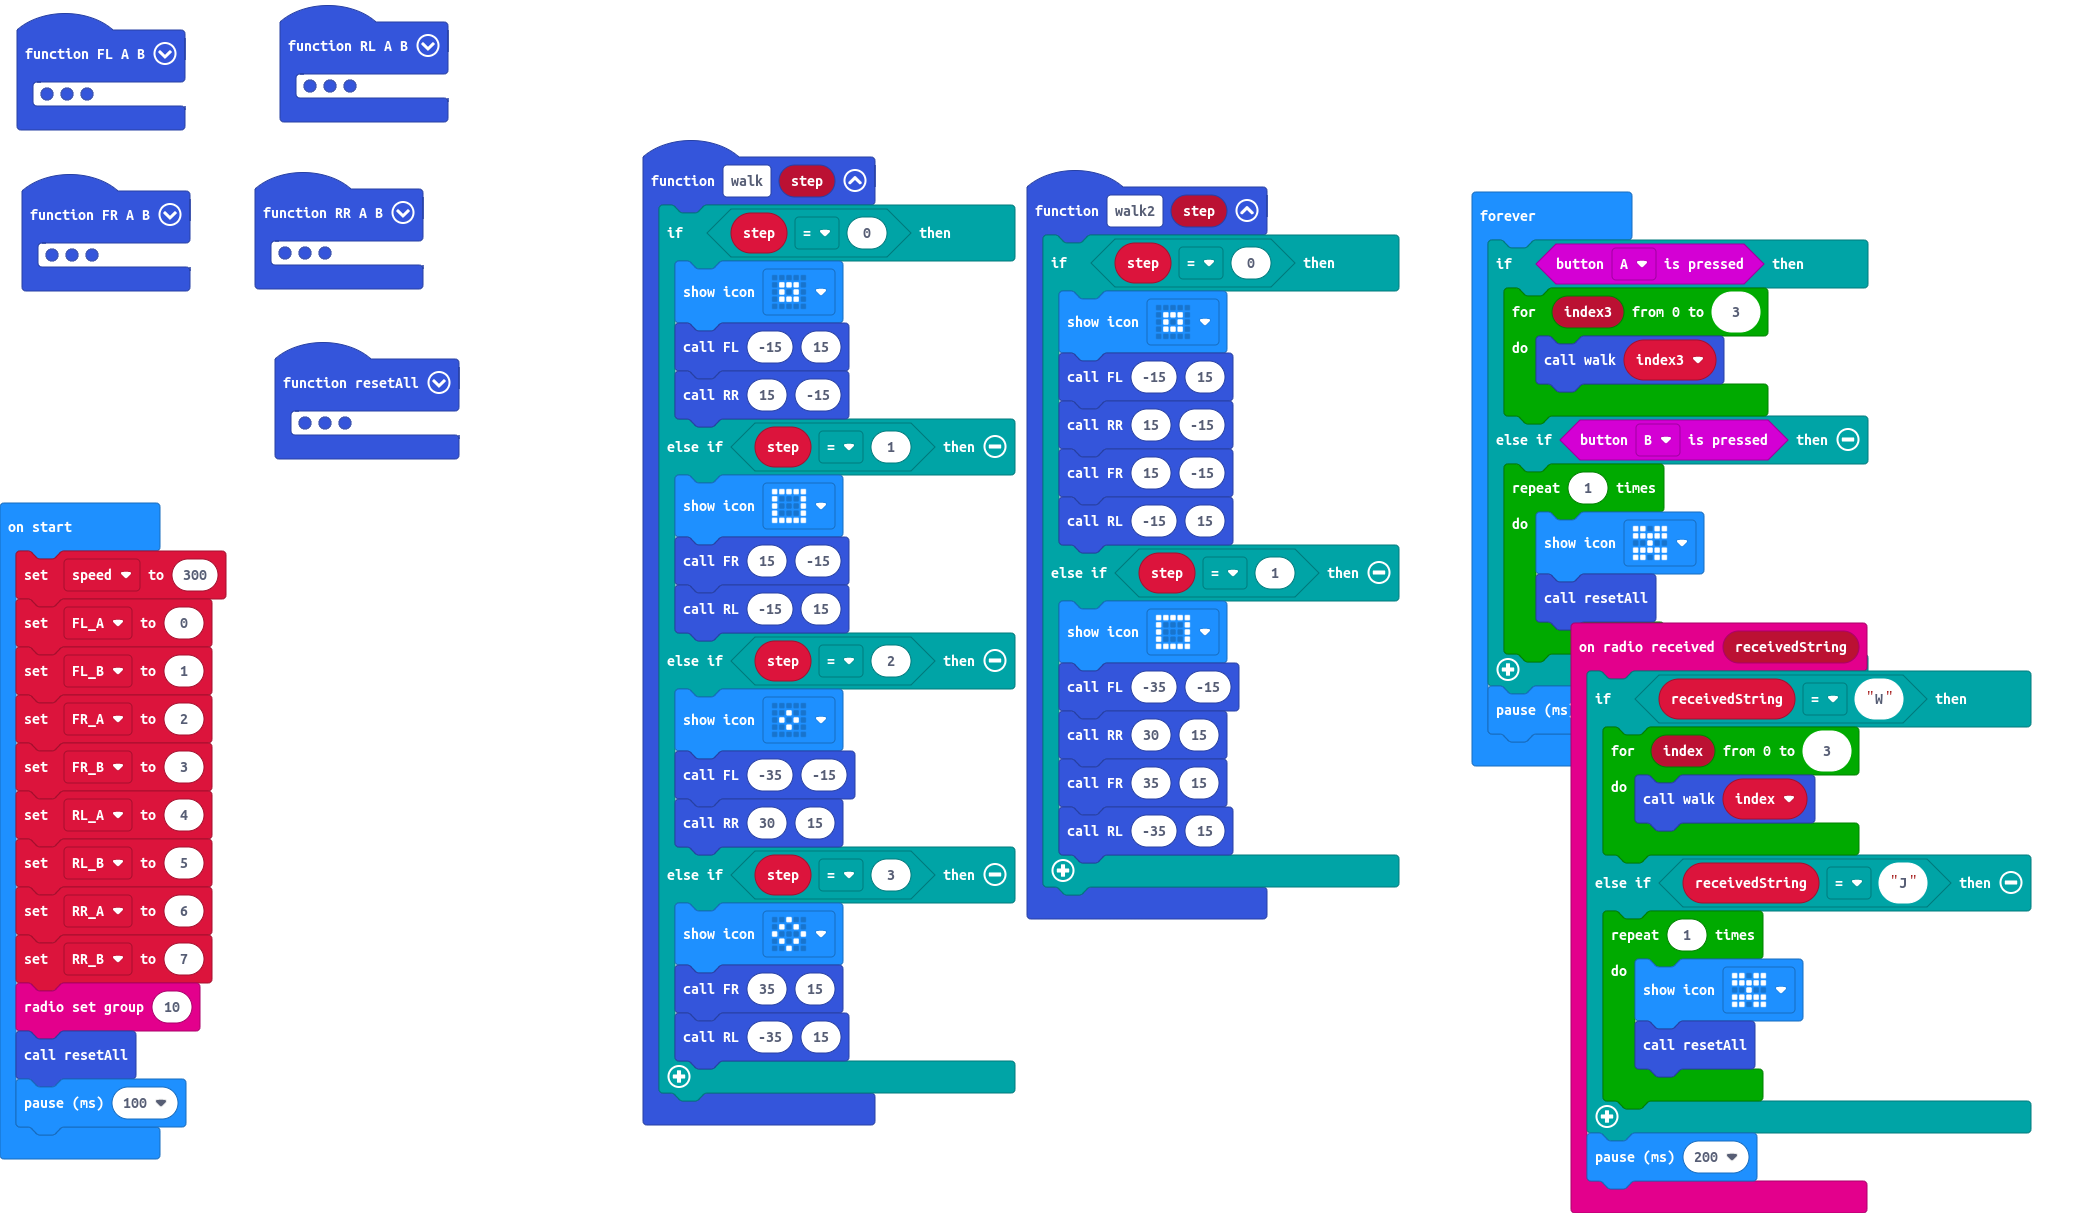
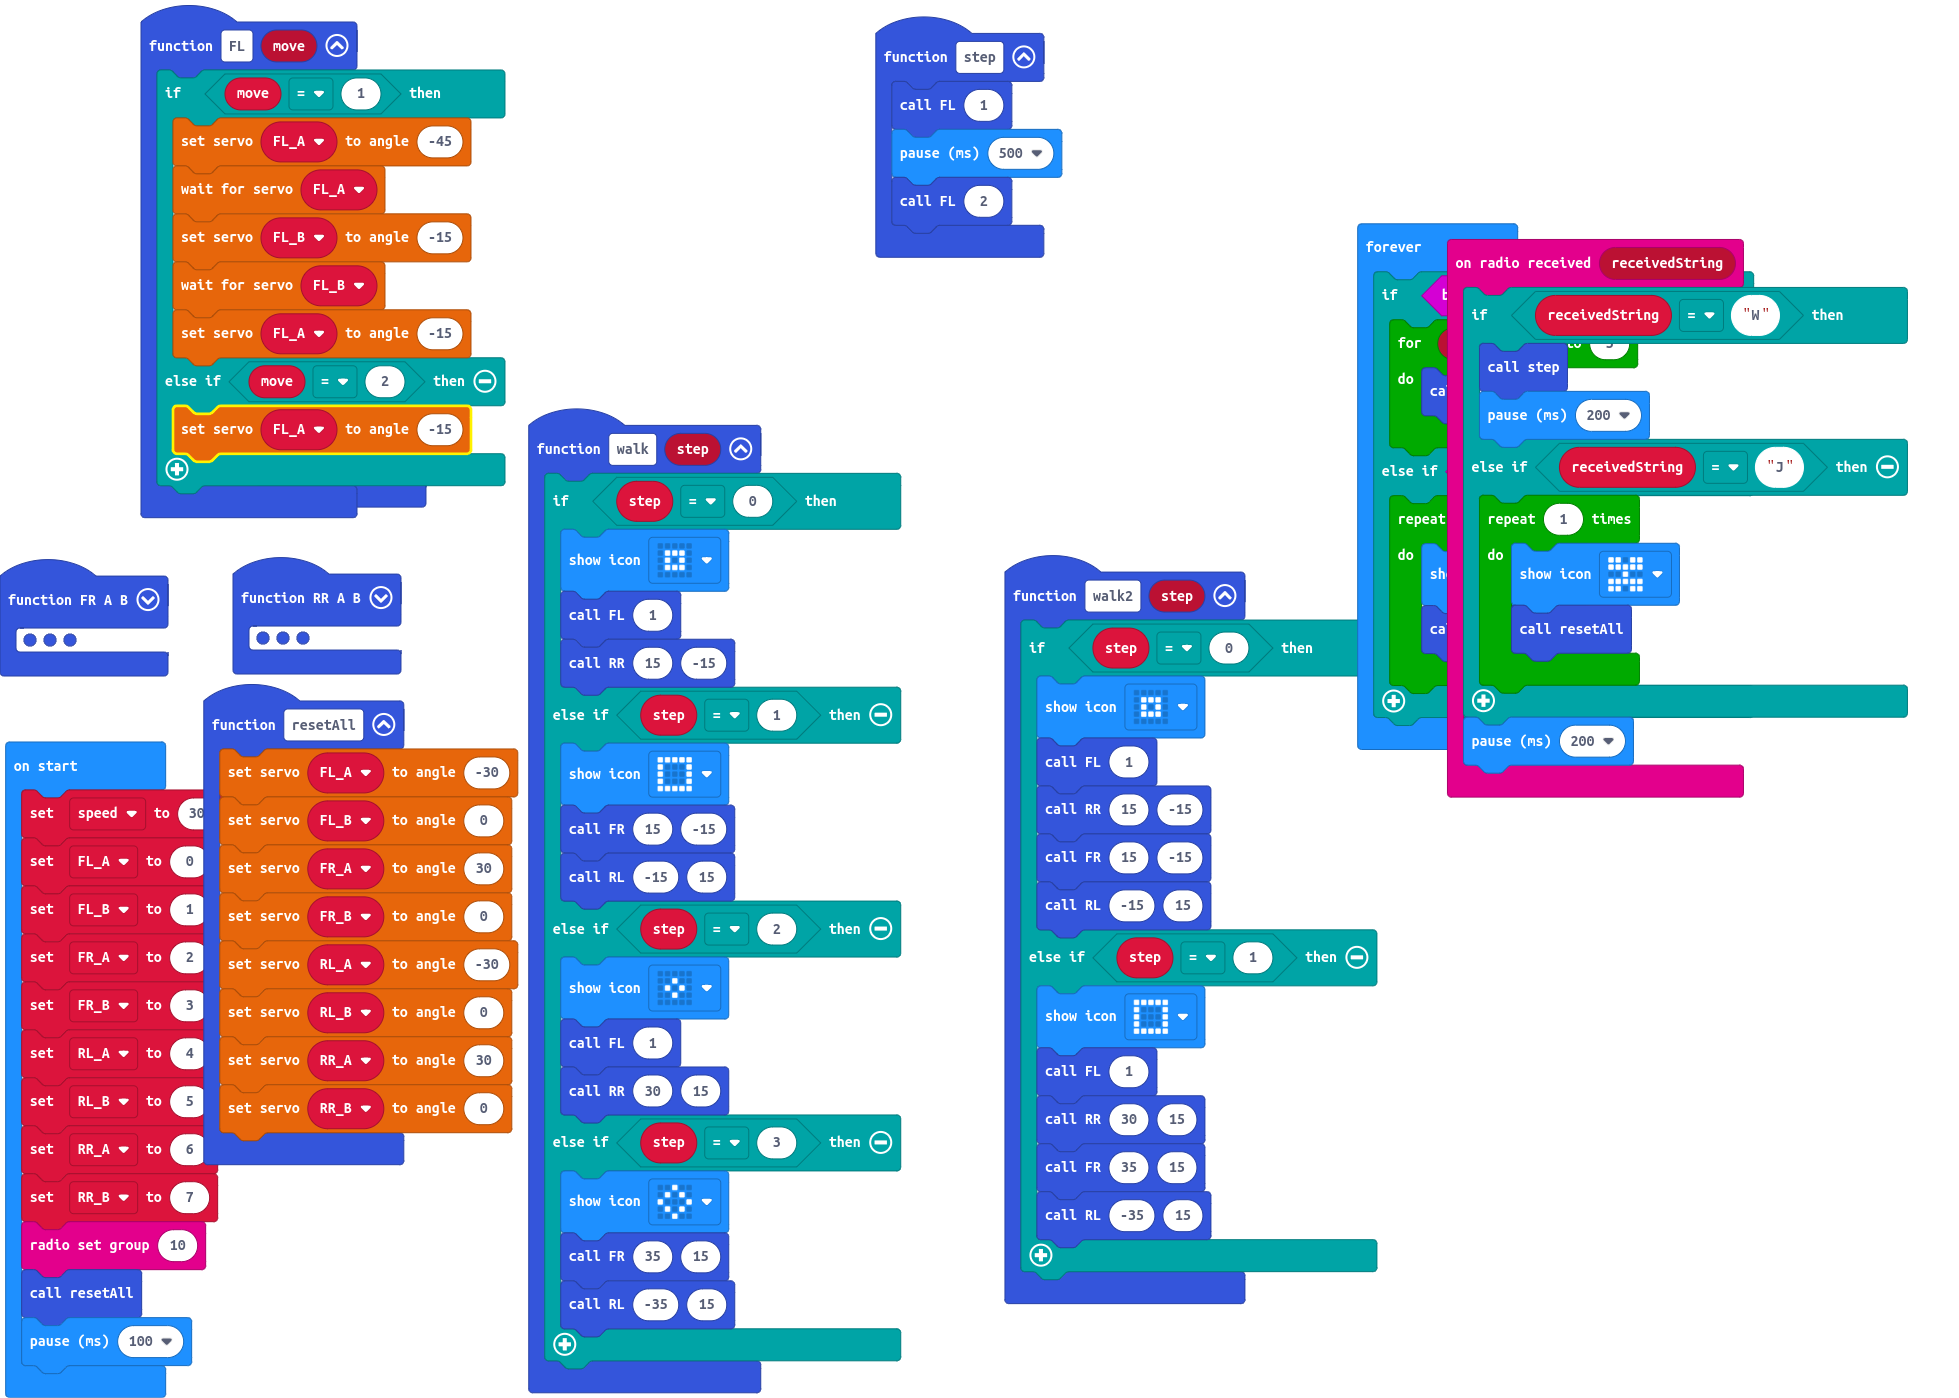
Update main.blocks, main.ts

diff --git a/main.ts b/main.ts
@@ -3,25 +3,36 @@ function FR (A: number, B: number) {
     ServoBit.waitServo(FR_A)
     ServoBit.setServo(FR_B, B)
 }
-function FL (A: number, B: number) {
-    ServoBit.setServo(FL_A, A)
-    ServoBit.waitServo(FL_A)
-    ServoBit.setServo(FL_B, B)
+function step () {
+    FL(1)
+    basic.pause(500)
+    FL(2)
 }
-function walk (step: number) {
-    if (step == 0) {
+function FL (move: number) {
+    if (move == 1) {
+        ServoBit.setServo(FL_A, -45)
+        ServoBit.waitServo(FL_A)
+        ServoBit.setServo(FL_B, -15)
+        ServoBit.waitServo(FL_B)
+        ServoBit.setServo(FL_A, -15)
+    } else if (move == 2) {
+        ServoBit.setServo(FL_A, -15)
+    }
+}
+function walk (step2: number) {
+    if (step2 == 0) {
         basic.showIcon(IconNames.SmallSquare)
-        FL(-15, 15)
+        FL(1)
         RR(15, -15)
-    } else if (step == 1) {
+    } else if (step2 == 1) {
         basic.showIcon(IconNames.Square)
         FR(15, -15)
         RL(-15, 15)
-    } else if (step == 2) {
+    } else if (step2 == 2) {
         basic.showIcon(IconNames.SmallDiamond)
-        FL(-35, -15)
+        FL(1)
         RR(30, 15)
-    } else if (step == 3) {
+    } else if (step2 == 3) {
         basic.showIcon(IconNames.Diamond)
         FR(35, 15)
         RL(-35, 15)
@@ -42,16 +53,16 @@ function RR (A: number, B: number) {
     ServoBit.waitServo(RR_A)
     ServoBit.setServo(RR_B, B)
 }
-function walk2 (step: number) {
-    if (step == 0) {
+function walk2 (step2: number) {
+    if (step2 == 0) {
         basic.showIcon(IconNames.SmallSquare)
-        FL(-15, 15)
+        FL(1)
         RR(15, -15)
         FR(15, -15)
         RL(-15, 15)
-    } else if (step == 1) {
+    } else if (step2 == 1) {
         basic.showIcon(IconNames.Square)
-        FL(-35, -15)
+        FL(1)
         RR(30, 15)
         FR(35, 15)
         RL(-35, 15)
@@ -59,9 +70,8 @@ function walk2 (step: number) {
 }
 radio.onReceivedString(function (receivedString) {
     if (receivedString == "W") {
-        for (let index = 0; index <= 3; index++) {
-            walk(index)
-        }
+        step()
+        basic.pause(200)
     } else if (receivedString == "J") {
         for (let index = 0; index < 1; index++) {
             basic.showIcon(IconNames.Butterfly)
@@ -97,8 +107,8 @@ resetAll()
 basic.pause(100)
 basic.forever(function () {
     if (input.buttonIsPressed(Button.A)) {
-        for (let index3 = 0; index3 <= 3; index3++) {
-            walk(index3)
+        for (let index = 0; index <= 3; index++) {
+            step()
         }
     } else if (input.buttonIsPressed(Button.B)) {
         for (let index = 0; index < 1; index++) {
@@ -106,5 +116,4 @@ basic.forever(function () {
             resetAll()
         }
     }
-    basic.pause(200)
 })
